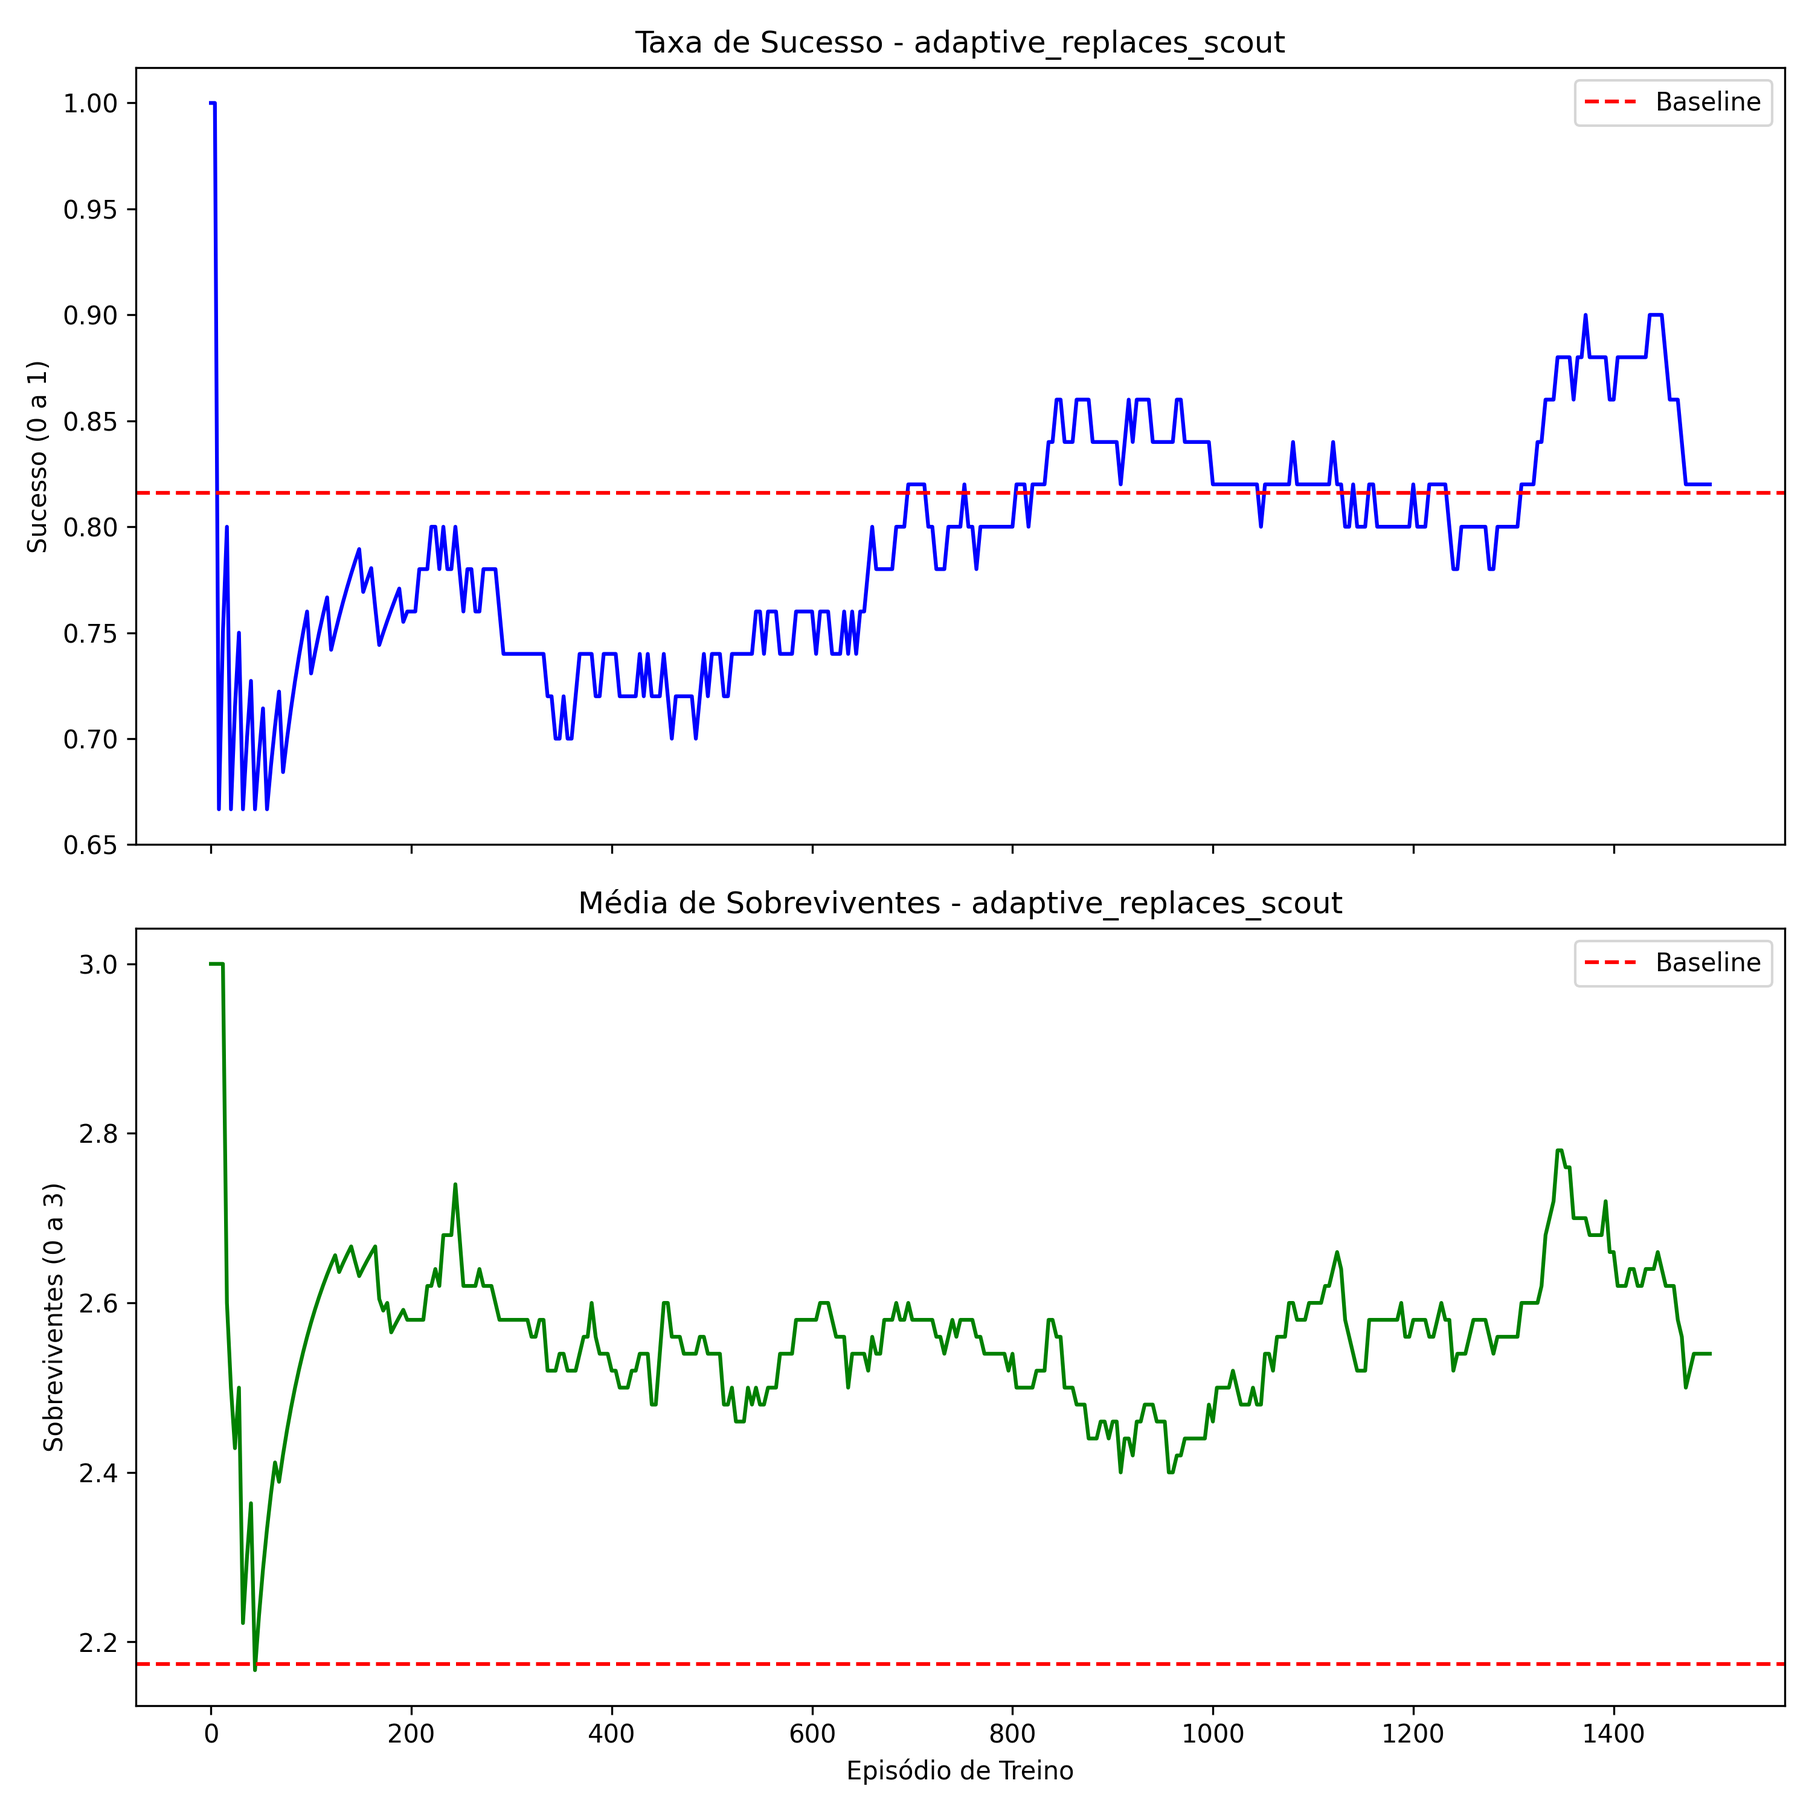
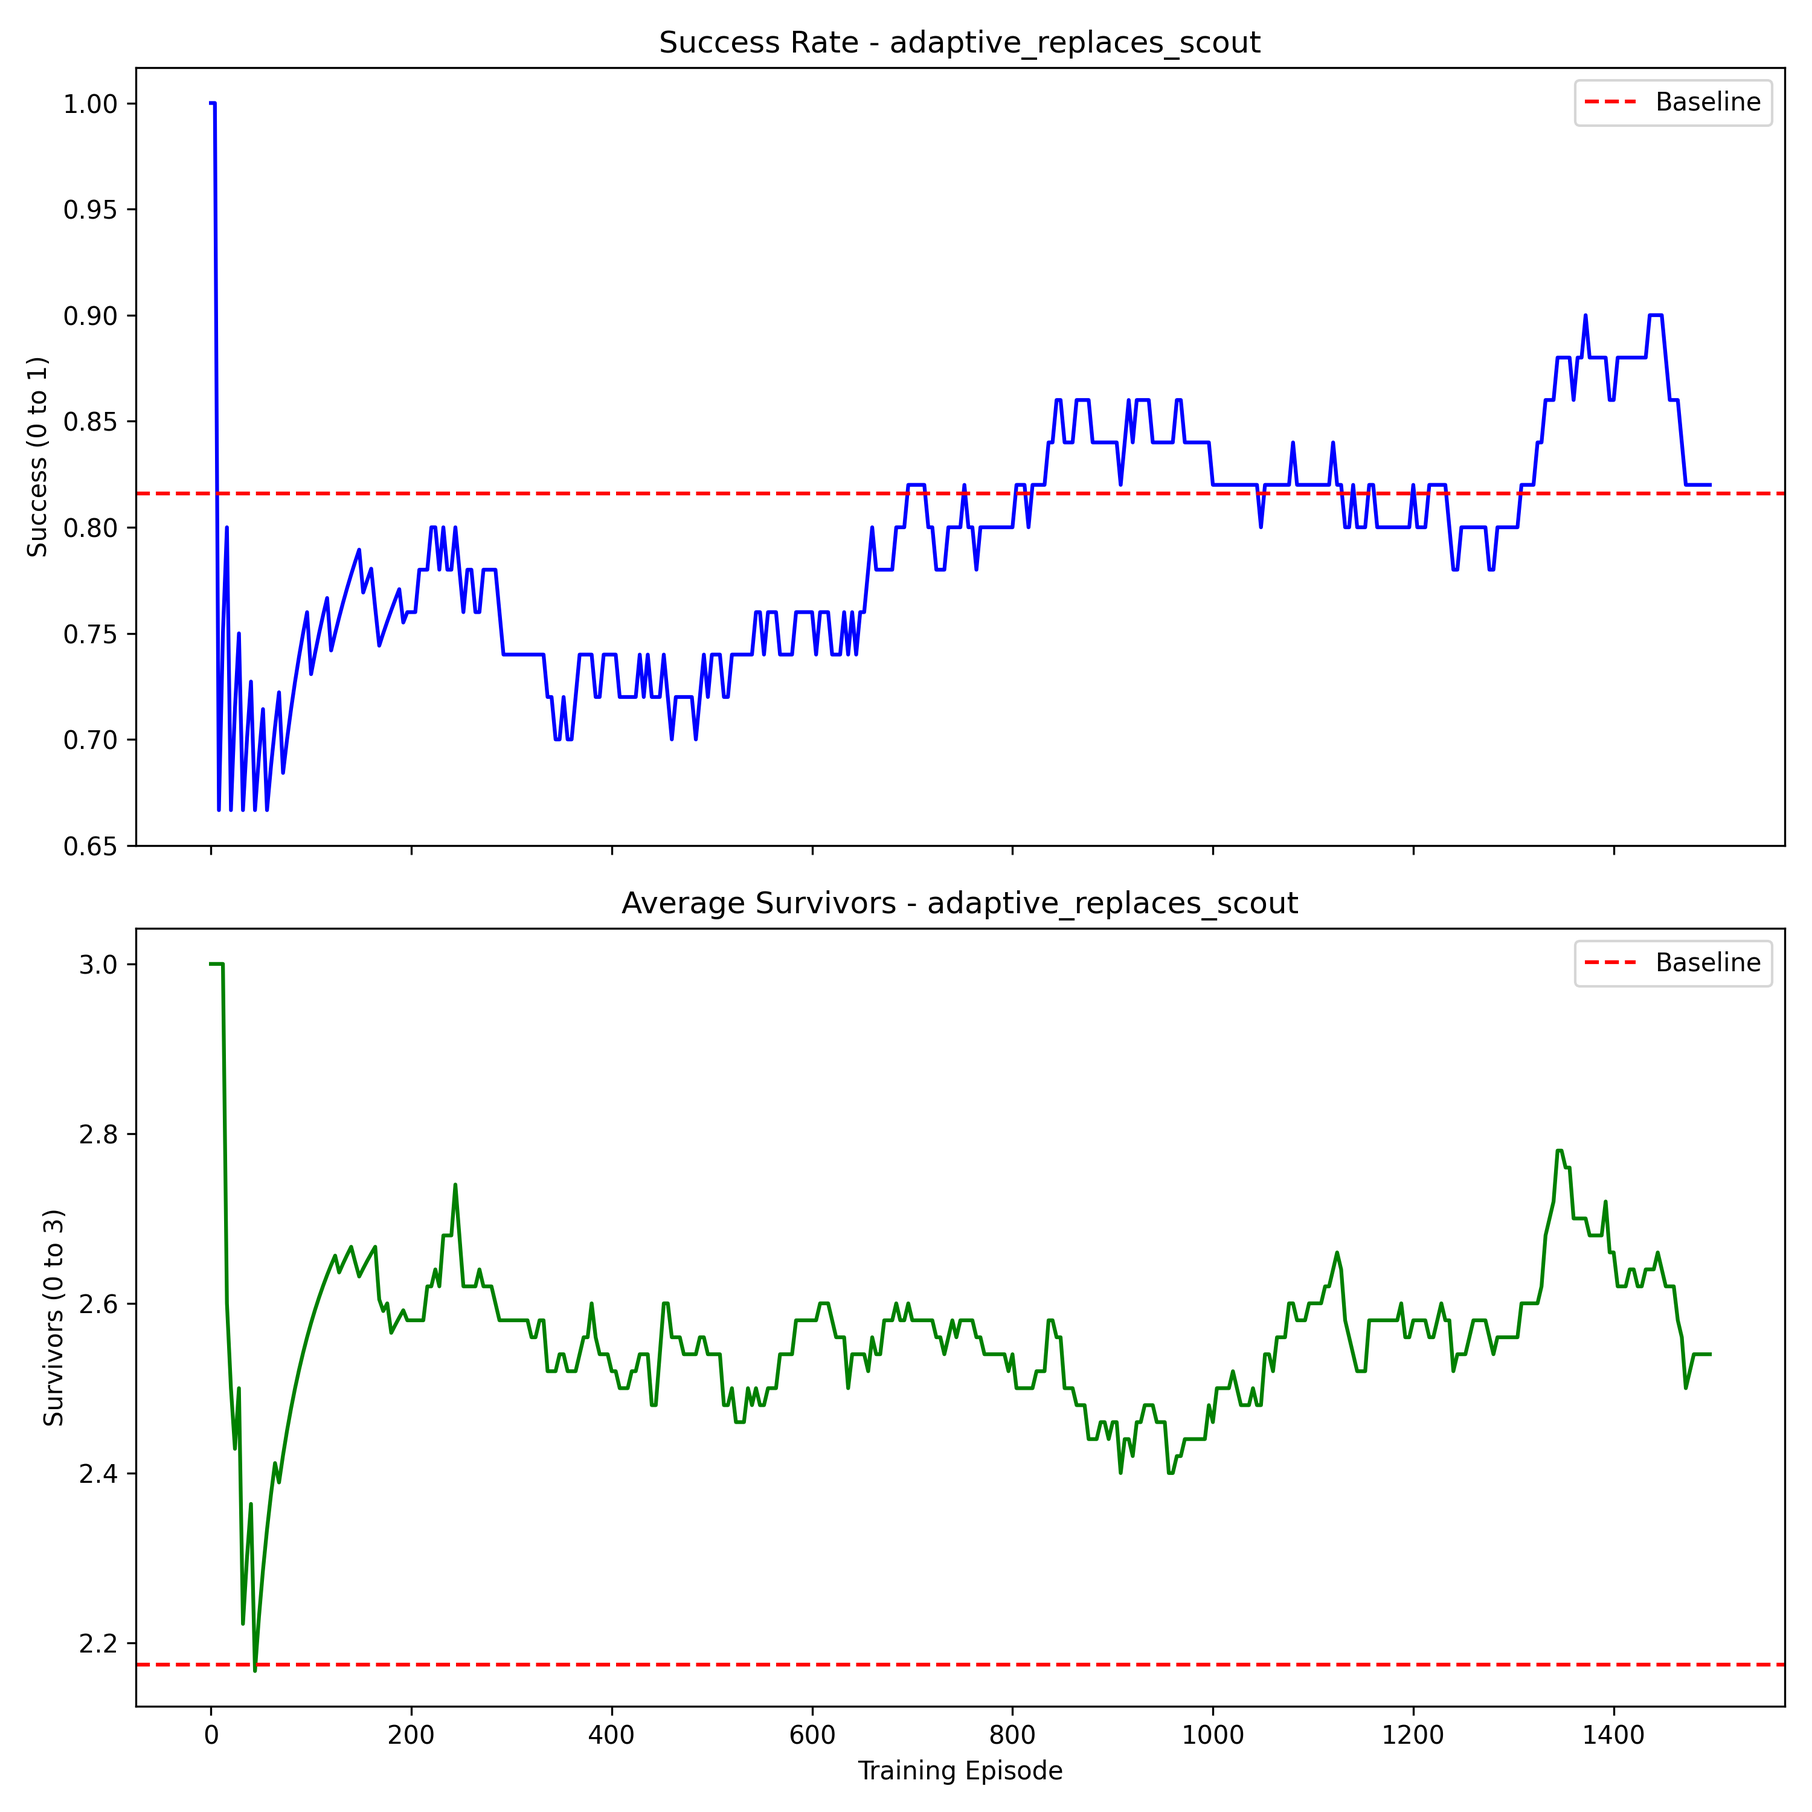
fix: Update README and analysis.py for clarity and consistency; modify image descriptions and adjust plot parameters

diff --git a/src/analysis.py b/src/analysis.py
@@ -12,29 +12,29 @@ def interpret_state(state):
     
     desc = []
     
-    # 1. Vida do Agente
-    if hp == 'low': desc.append("HP Crítico")
-    elif hp == 'medium': desc.append("HP Médio")
-    elif hp == 'high': desc.append("HP Alto")
+    # 1. Agent Health
+    if hp == 'low': desc.append("Critical HP")
+    elif hp == 'medium': desc.append("Medium HP")
+    elif hp == 'high': desc.append("High HP")
     
-    # 2 e 3. Ameaça Zombie (Distância e Quantidade)
+    # 2 and 3. Zombie Threat (Distance and Quantity)
     if dist_zom == 'danger': 
-        desc.append(f"Zumbis colados ({count_zom})")
+        desc.append(f"Zombies very close ({count_zom})")
     elif dist_zom == 'near': 
-        desc.append(f"Zumbis perto ({count_zom})")
+        desc.append(f"Zombies nearby ({count_zom})")
     elif dist_zom == 'far': 
-        desc.append(f"Zumbis longe")
+        desc.append(f"Zombies far away")
     
-    # 4. Conhecimento da Base Segura
-    if safe_phase == 'unknown': desc.append("SafeZone Desconhecida")
-    elif safe_phase == 'near': desc.append("SafeZone Perto")
-    elif safe_phase == 'medium' or safe_phase == 'far': desc.append("SafeZone Longe")
+    # 4. Safe Zone Knowledge
+    if safe_phase == 'unknown': desc.append("SafeZone Unknown")
+    elif safe_phase == 'near': desc.append("SafeZone Nearby")
+    elif safe_phase == 'medium' or safe_phase == 'far': desc.append("SafeZone Far")
     
-    # 5. Estado dos Colegas
-    if inj_near == 1: desc.append("Colega Ferido")
+    # 5. Teammates Status
+    if inj_near == 1: desc.append("Injured Teammate")
     
-    # 6. Distância da Equipa
-    if team_far == 1: desc.append("Longe da Equipa")
+    # 6. Distance to Team
+    if team_far == 1: desc.append("Far from Team")
         
     return " | ".join(desc)
 
@@ -45,7 +45,7 @@ def calculate_confidence(q_values_dict):
     mean_val = sum(values) / len(values)
     return max_val - mean_val
 
-def extract_top_states(q_table, top_n=30):
+def extract_top_states(q_table, top_n=15):
     """Extrai e ordena os estados onde o agente tem mais 'certeza' do que fazer."""
     state_metrics = []
     
@@ -70,24 +70,24 @@ def extract_top_states(q_table, top_n=30):
 
 
 def plot_qtable_heatmap(q_table, filename="results/qtable_heatmap.png"):
-    """Gera um Heatmap dos 30 estados mais visitados/decididos."""
-    top_30 = extract_top_states(q_table, top_n=30)
+    """Gera um Heatmap dos 15 estados mais visitados/decididos."""
+    top_15 = extract_top_states(q_table, top_n=15)
     
-    if not top_30:
+    if not top_15:
         print("A Q-table não tem dados suficientes para o Heatmap.")
         return
 
     # Prepara dados para o Pandas
-    index_labels = [interpret_state(item["state_tuple"]) for item in top_30]
-    data = [item["q_values"] for item in top_30]
+    index_labels = [interpret_state(item["state_tuple"]) for item in top_15]
+    data = [item["q_values"] for item in top_15]
     
     df = pd.DataFrame(data, index=index_labels)
     
-    plt.figure(figsize=(10, 12))
+    plt.figure(figsize=(14, 10))
     sns.heatmap(df, annot=True, cmap="YlGnBu", fmt=".2f", linewidths=.5)
-    plt.title("Q-Values para os 30 Estados com Maior Confiança")
-    plt.ylabel("Estado Ocorrido")
-    plt.xlabel("Ações")
+    plt.title("Q-Values for the 15 States with Highest Confidence")
+    plt.ylabel("Observed State")
+    plt.xlabel("Actions")
     plt.tight_layout()
     plt.savefig(filename, dpi=300)
     plt.close()
@@ -114,19 +114,19 @@ def plot_learning_curve(training_history, baseline_metrics=None, out_dir="result
     # Agora só temos 2 subplots em vez de 3
     fig, axes = plt.subplots(2, 1, figsize=(10, 10), sharex=True)
     
-    # Taxa de Sucesso
+    # Success Rate
     sns.lineplot(data=df_geral, x='episode', y='smooth_success', ax=axes[0], color='blue')
-    axes[0].set_title('Taxa de Sucesso ao Longo do Treino (Geral)')
-    axes[0].set_ylabel('Sucesso (0 a 1)')
+    axes[0].set_title('Success Rate Over Training (Overall)')
+    axes[0].set_ylabel('Success (0 to 1)')
     if baseline_metrics and 'success_rate' in baseline_metrics:
         axes[0].axhline(y=baseline_metrics['success_rate'], color='red', linestyle='--', label='Baseline')
         axes[0].legend()
 
-    # Média de Sobreviventes
+    # Average Survivors
     sns.lineplot(data=df_geral, x='episode', y='smooth_survivors', ax=axes[1], color='green')
-    axes[1].set_title('Média de Sobreviventes (Geral)')
-    axes[1].set_ylabel('Sobreviventes (0 a 3)')
-    axes[1].set_xlabel('Episódio de Treino')
+    axes[1].set_title('Average Survivors (Overall)')
+    axes[1].set_ylabel('Survivors (0 to 3)')
+    axes[1].set_xlabel('Training Episode')
     if baseline_metrics and 'avg_survivors' in baseline_metrics:
         axes[1].axhline(y=baseline_metrics['avg_survivors'], color='red', linestyle='--', label='Baseline')
         axes[1].legend()
@@ -152,19 +152,19 @@ def plot_learning_curve(training_history, baseline_metrics=None, out_dir="result
         
         fig, axes = plt.subplots(2, 1, figsize=(10, 10), sharex=True)
         
-        # Taxa de Sucesso
+        # Success Rate
         sns.lineplot(data=df_mode, x='episode', y='smooth_success', ax=axes[0], color='blue')
-        axes[0].set_title(f'Taxa de Sucesso - {mode}')
-        axes[0].set_ylabel('Sucesso (0 a 1)')
+        axes[0].set_title(f'Success Rate - {mode}')
+        axes[0].set_ylabel('Success (0 to 1)')
         if baseline_metrics and 'success_rate' in baseline_metrics:
             axes[0].axhline(y=baseline_metrics['success_rate'], color='red', linestyle='--', label='Baseline')
             axes[0].legend()
 
-        # Média de Sobreviventes
+        # Average Survivors
         sns.lineplot(data=df_mode, x='episode', y='smooth_survivors', ax=axes[1], color='green')
-        axes[1].set_title(f'Média de Sobreviventes - {mode}')
-        axes[1].set_ylabel('Sobreviventes (0 a 3)')
-        axes[1].set_xlabel('Episódio de Treino')
+        axes[1].set_title(f'Average Survivors - {mode}')
+        axes[1].set_ylabel('Survivors (0 to 3)')
+        axes[1].set_xlabel('Training Episode')
         if baseline_metrics and 'avg_survivors' in baseline_metrics:
             axes[1].axhline(y=baseline_metrics['avg_survivors'], color='red', linestyle='--', label='Baseline')
             axes[1].legend()
@@ -196,9 +196,9 @@ def plot_test_comparisons(all_results, filename="results/test_comparison.png"):
         short_name = short_name.replace("Adaptive (All Roles)", "Adapts (All)")
 
         data.append({
-            "Equipas": short_name,
-            "Taxa de Sucesso": metrics.get("success_rate", 0),
-            "Média Sobreviventes": metrics.get("avg_survivors", 0)
+            "Teams": short_name,
+            "Success Rate": metrics.get("success_rate", 0),
+            "Average Survivors": metrics.get("avg_survivors", 0)
         })
         
     df = pd.DataFrame(data)
@@ -207,19 +207,19 @@ def plot_test_comparisons(all_results, filename="results/test_comparison.png"):
     fig, axes = plt.subplots(1, 2, figsize=(14, 6))
     
     # Gráfico 1: Taxa de Sucesso
-    sns.barplot(data=df, x="Taxa de Sucesso", y="Equipas", hue="Equipas", ax=axes[0], palette="Blues_d", legend=False)
-    axes[0].set_title('Comparação da Taxa de Sucesso no Teste Final', fontweight='bold')
+    sns.barplot(data=df, x="Success Rate", y="Teams", hue="Teams", ax=axes[0], palette="Blues_d", legend=False)
+    axes[0].set_title('Success Rate Comparison in Final Test', fontweight='bold')
     axes[0].set_xlim(0, 1.0)
     # Adicionar os valores nas barras
-    for i, v in enumerate(df["Taxa de Sucesso"]):
+    for i, v in enumerate(df["Success Rate"]):
         axes[0].text(v + 0.01, i, f"{v:.2f}", color='black', va='center')
 
     # Gráfico 2: Média de Sobreviventes
-    sns.barplot(data=df, x="Média Sobreviventes", y="Equipas", hue="Equipas", ax=axes[1], palette="Greens_d", legend=False)
-    axes[1].set_title('Comparação de Sobreviventes no Teste Final', fontweight='bold')
+    sns.barplot(data=df, x="Average Survivors", y="Teams", hue="Teams", ax=axes[1], palette="Greens_d", legend=False)
+    axes[1].set_title('Survivor Comparison in Final Test', fontweight='bold')
     axes[1].set_xlim(0, 3.0)
     # Adicionar os valores nas barras
-    for i, v in enumerate(df["Média Sobreviventes"]):
+    for i, v in enumerate(df["Average Survivors"]):
         axes[1].text(v + 0.03, i, f"{v:.2f}", color='black', va='center')
 
     plt.tight_layout()
@@ -253,7 +253,7 @@ def plot_role_ratios(all_results, filename="results/role_ratios.png"):
             support_ratio = (support_ratio / total) * 100
             
         data.append({
-            "Equipas": short_name,
+            "Teams": short_name,
             "Scout": scout_ratio,
             "Defender": defender_ratio,
             "Support": support_ratio
@@ -264,17 +264,17 @@ def plot_role_ratios(all_results, filename="results/role_ratios.png"):
         return
         
     # Usar o pandas para facilitar o gráfico empilhado
-    df = pd.DataFrame(data).set_index("Equipas")
+    df = pd.DataFrame(data).set_index("Teams")
     
     # Gerar o gráfico com cores distintas
     ax = df.plot(kind='bar', stacked=True, figsize=(10, 6), color=['#4c72b0', '#55a868', '#c44e52'], edgecolor='white')
     
-    plt.title('Distribuição de Papéis Escolhidos pelo Agente Adaptativo', fontweight='bold', pad=15)
-    plt.ylabel('Percentagem de Uso (%)')
-    plt.xlabel('Cenários com Adaptativo')
+    plt.title('Role Distribution Chosen by the Adaptive Agent', fontweight='bold', pad=15)
+    plt.ylabel('Usage Percentage (%)')
+    plt.xlabel('Adaptive Scenarios')
     
     # Colocar a legenda fora do gráfico para não tapar as barras
-    plt.legend(title="Papel Assumido", bbox_to_anchor=(1.05, 1), loc='upper left')
+    plt.legend(title="Assumed Role", bbox_to_anchor=(1.05, 1), loc='upper left')
     
     # Rodar os labels do eixo X para se lerem melhor
     plt.xticks(rotation=0)
@@ -305,7 +305,7 @@ def plot_events_table(all_results, filename="results/events_table.png"):
             f"{metrics.get('avg_scan_events', 0):.2f}"
         ])
         
-    columns = ["Equipas", "Avg Steps", "Avg Attacks", "Avg Heals", "Avg Scans"]
+    columns = ["Teams", "Avg Steps", "Avg Attacks", "Avg Heals", "Avg Scans"]
     
     fig, ax = plt.subplots(figsize=(10, 4))
     ax.axis('tight')
@@ -322,7 +322,7 @@ def plot_events_table(all_results, filename="results/events_table.png"):
             cell.set_text_props(weight='bold', color='white')
             cell.set_facecolor('#4c72b0')
             
-    plt.title("Resumo de Eventos Médios por Episódio", pad=20, size=14, weight='bold')
+    plt.title("Summary of Average Events per Episode", pad=20, size=14, weight='bold')
     plt.tight_layout()
     plt.savefig(filename, dpi=300)
     plt.close()
@@ -347,10 +347,10 @@ def plot_rl_comparison(master_results, filename="results/rl_comparison.png"):
             short_cfg = config.replace("Q-Learning", "QL").replace("SARSA", "Sarsa").replace("decay=", "d=")
 
             data.append({
-                "Configuração RL": short_cfg,
-                "Cenário": short_exp,
-                "Taxa de Sucesso": metrics.get("success_rate", 0),
-                "Média Sobreviventes": metrics.get("avg_survivors", 0)
+                "RL Configuration": short_cfg,
+                "Scenario": short_exp,
+                "Success Rate": metrics.get("success_rate", 0),
+                "Average Survivors": metrics.get("avg_survivors", 0)
             })
     
     df = pd.DataFrame(data)
@@ -358,15 +358,15 @@ def plot_rl_comparison(master_results, filename="results/rl_comparison.png"):
     fig, axes = plt.subplots(2, 1, figsize=(14, 12))
     
     # Gráfico 1: Taxa de Sucesso
-    sns.barplot(data=df, x="Configuração RL", y="Taxa de Sucesso", hue="Cenário", ax=axes[0], palette="Blues_d")
-    axes[0].set_title("Comparação da Taxa de Sucesso por Configuração RL", fontweight="bold", fontsize=14)
+    sns.barplot(data=df, x="RL Configuration", y="Success Rate", hue="Scenario", ax=axes[0], palette="Blues_d")
+    axes[0].set_title("Success Rate Comparison by RL Configuration", fontweight="bold", fontsize=14)
     axes[0].set_ylim(0.65, 1.05)
     axes[0].tick_params(axis='x', rotation=15)
     axes[0].legend(bbox_to_anchor=(1.01, 1), loc='upper left')
     
     # Gráfico 2: Média de Sobreviventes
-    sns.barplot(data=df, x="Configuração RL", y="Média Sobreviventes", hue="Cenário", ax=axes[1], palette="Greens_d")
-    axes[1].set_title("Comparação de Sobreviventes por Configuração RL", fontweight="bold", fontsize=14)
+    sns.barplot(data=df, x="RL Configuration", y="Average Survivors", hue="Scenario", ax=axes[1], palette="Greens_d")
+    axes[1].set_title("Survivor Comparison by RL Configuration", fontweight="bold", fontsize=14)
     axes[1].set_ylim(1, 3.2)
     axes[1].tick_params(axis='x', rotation=15)
     axes[1].legend(bbox_to_anchor=(1.01, 1), loc='upper left')

diff --git a/README.md b/README.md
@@ -3,23 +3,23 @@
 ## Ad Hoc Teamwork in a Zombie Survival Grid World
 
 This repository studies ad hoc teamwork in a multi-agent zombie survival grid world.
-An adaptive agent must cooperate with unknown teammates (Scout, Defender, Support) without prior coordination. The environment contains survivor agents, zombies, obstacles, and a safe zone.
+An adaptive agent must cooperate with unknown teammates (Scout, Defender, Support) without prior coordination. The environment contains survivor agents, zombies, obstacles, and safe zones.
 
-Project authors: Francisco Nascimento, Miguel Baptista and Daniel Barbosa.
+Project authors: Francisco Nascimento, Miguel Baptista and Daniel Bartolomeu.
 
 ## Project Structure
 
 ```text
 AASMA-Project-25-26/
 ├── main.py                 # Run experiments (no visualization)
-├── compare_rl.py           # Scripts to compare RL policies
 ├── app.py                  # Mesa/Solara visualization
 ├── requirements.txt        # Python dependencies
 ├── README.md               # This file
 ├── config/
 │   └── config.py           # Global configuration parameters
 ├── images/                 # Images used by the app
-├── results/                # Experiment outputs and logs
+├── results/                # Experiment outputs and graphs
+├── rl_comparisons/         # Scripts for comparing RL policies
 └── src/
 		├── model.py            # Mesa model and grid environment
 		├── experiments.py      # Experiment setups and runners
@@ -88,7 +88,7 @@ Team: Adaptive + Adaptive + Adaptive
 
 ## Running the Visualization
 
-To run the interactive Mesa/Solara visualization:
+To run the interactive Mesa/Solara visualization (SEED in config.py):
 
 ```bash
 solara run app.py
